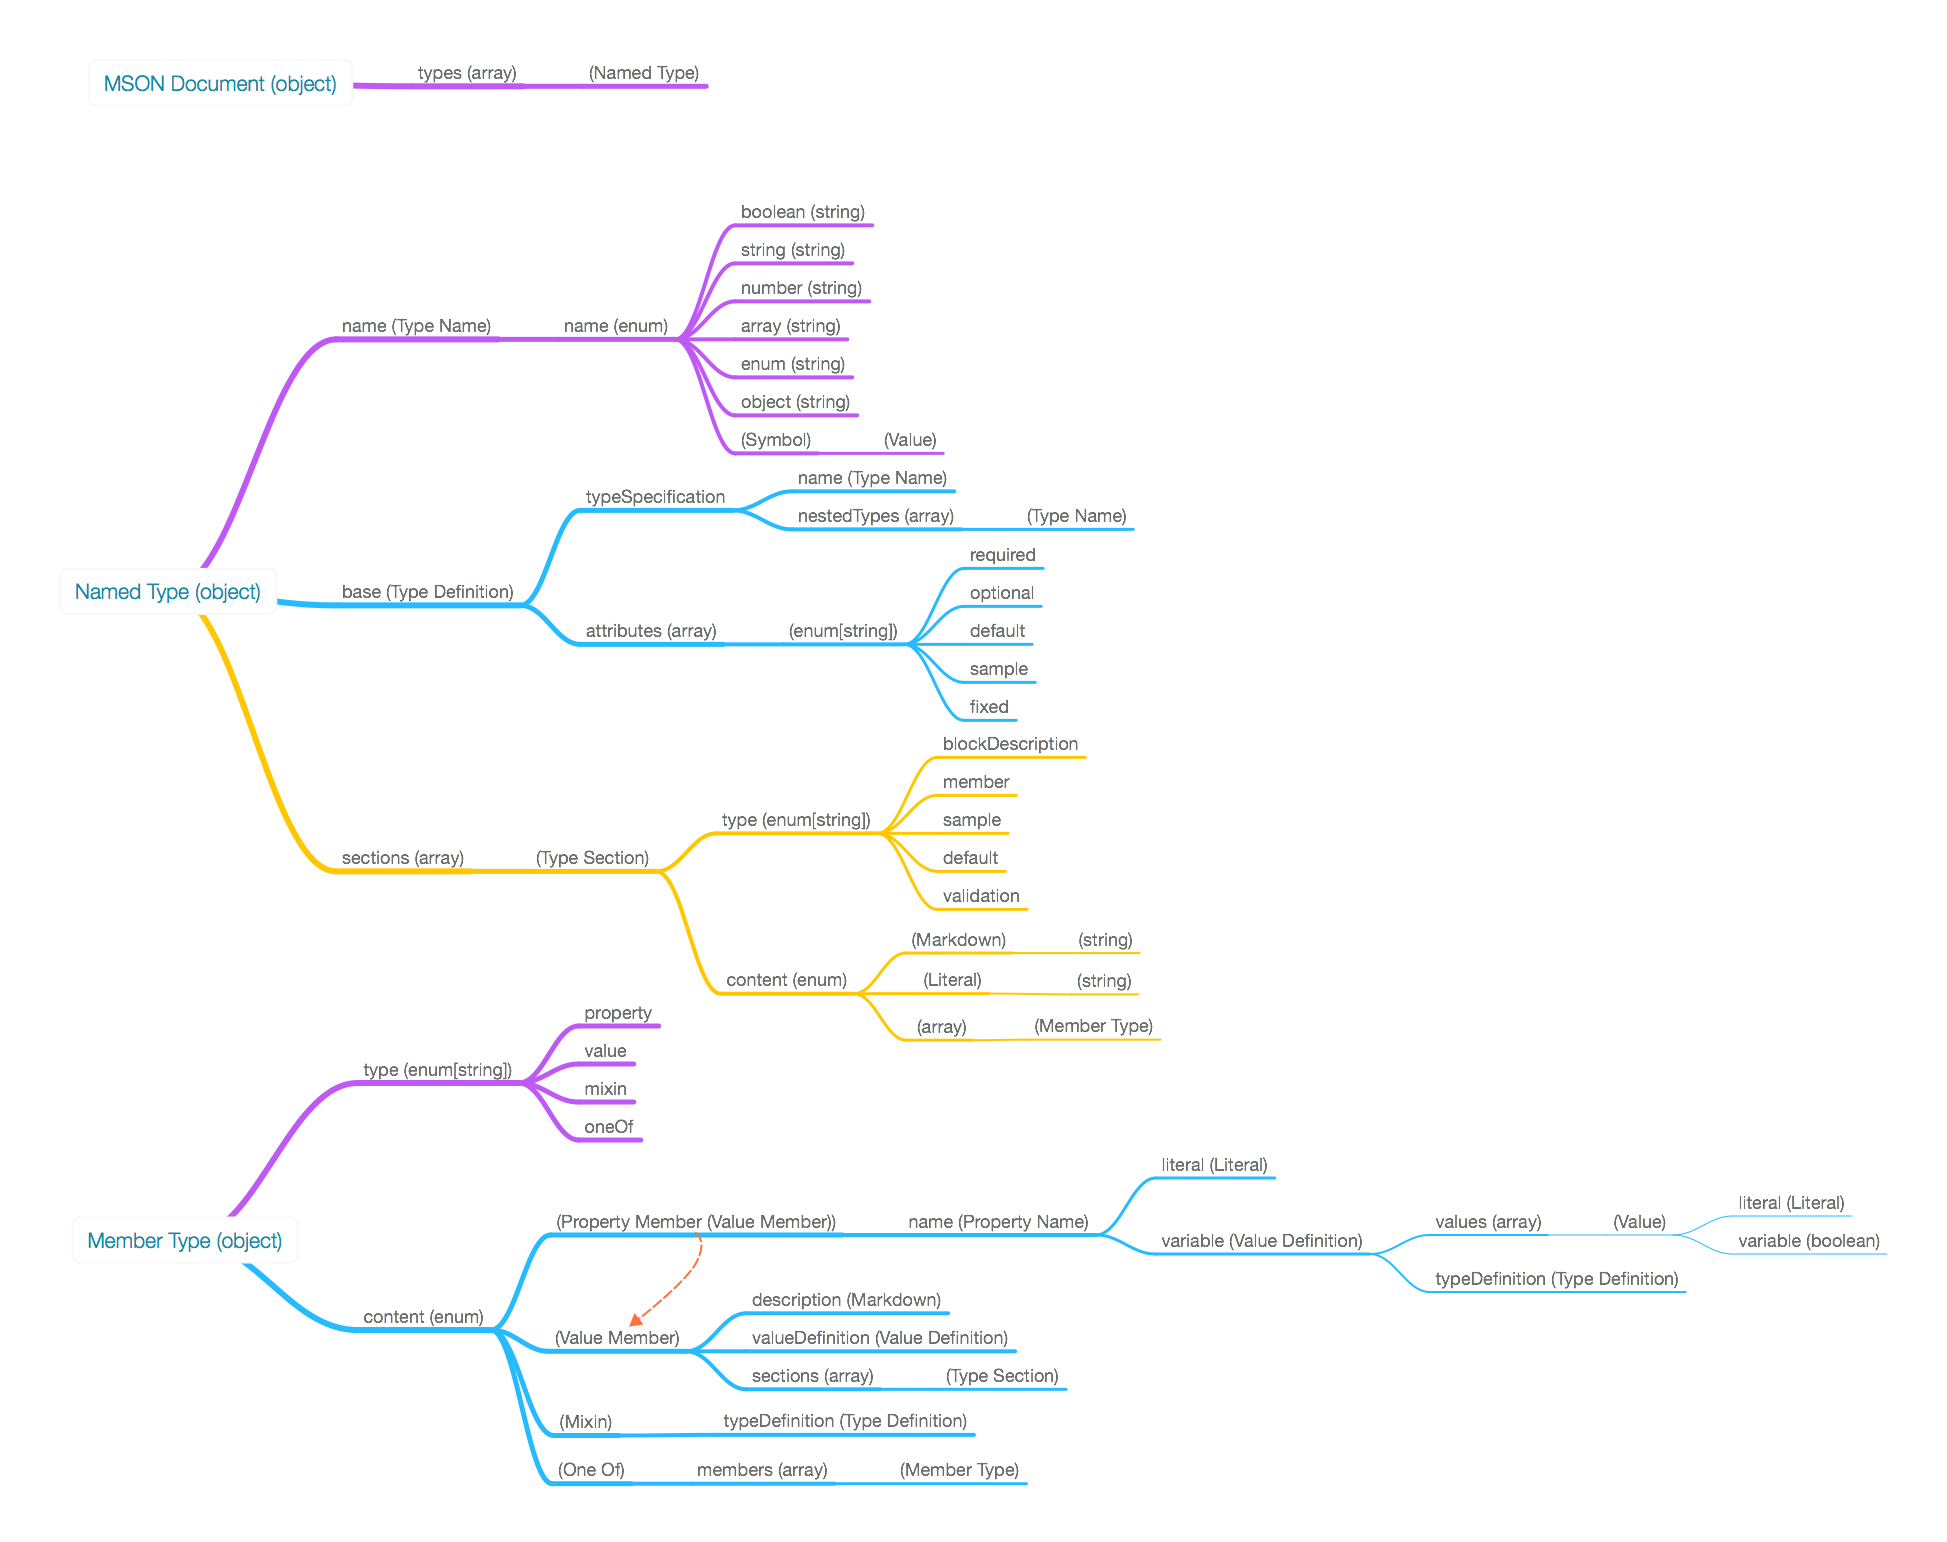
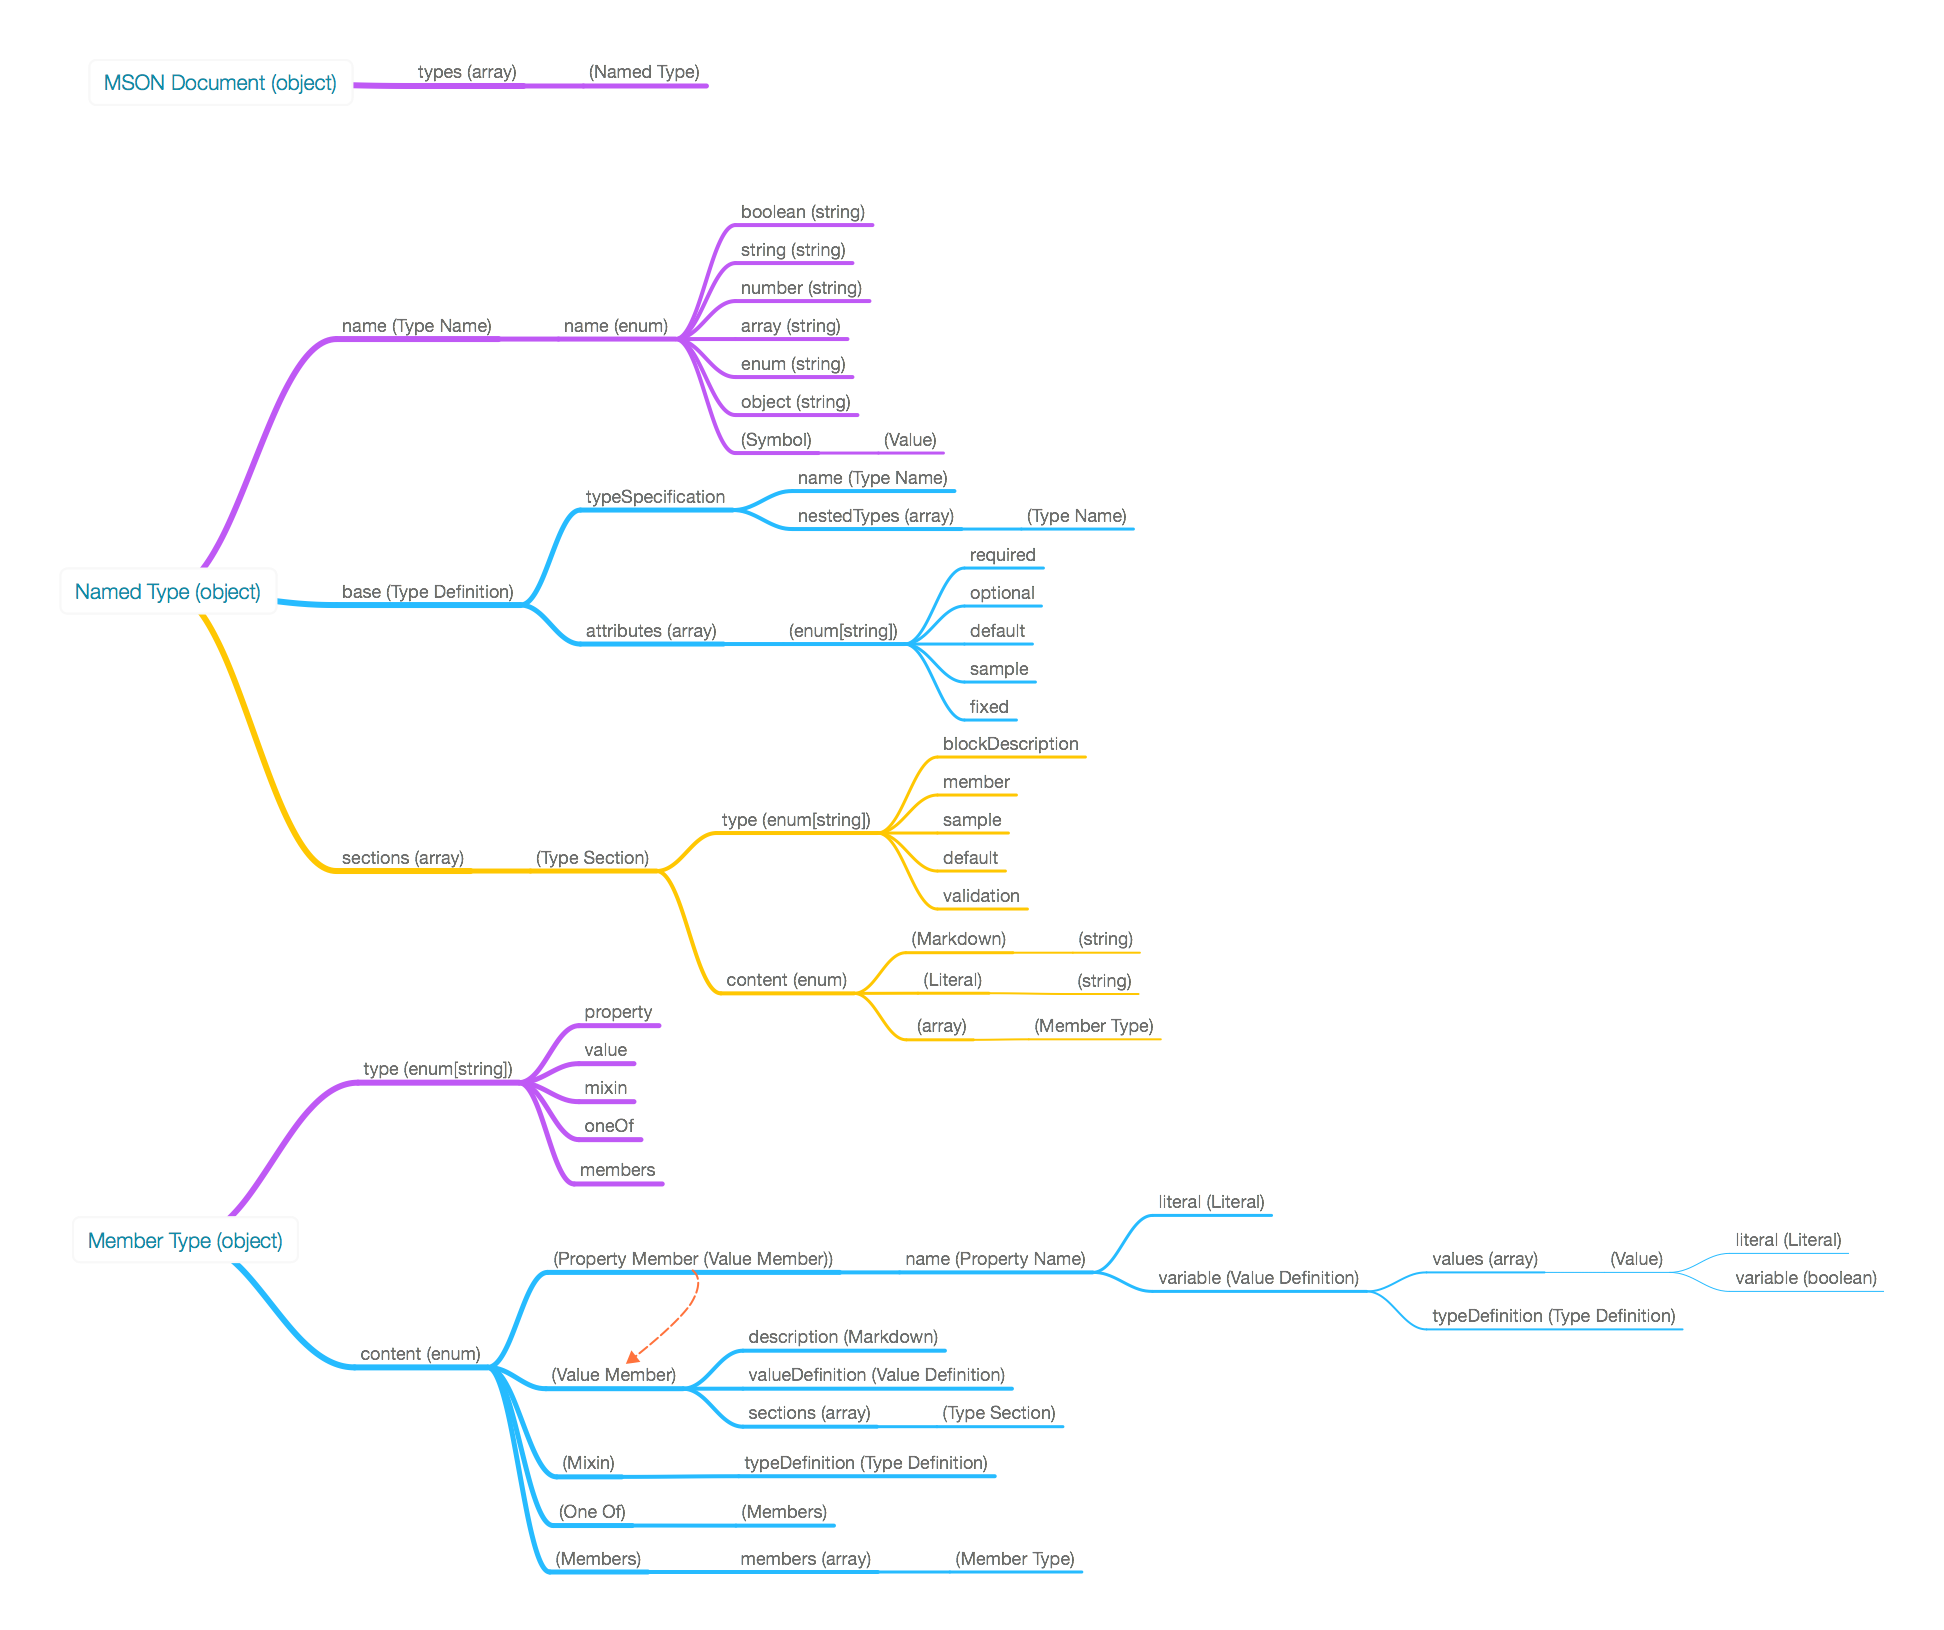
Add a new member group type in member type

diff --git a/README.md b/README.md
@@ -98,12 +98,14 @@ Member Type of a structure as described in the MSON Specification. In addition, 
     - `value` - Value Member
     - `mixin` - Mixin Type
     - `oneOf` - One Of Type
+    - `members` - Member Type Group
 
 - `content` (enum)
     - ([Property Member][]) - Member for `property` type
     - ([Value Member][]) - Member for `value` type
     - ([Mixin][]) - Member for `mixin` type
     - ([One Of][]) - Member for `oneOf` type
+    - ([Members][]) - Member for `members` type
 
 ### Property Member ([Value Member][])
 Individual member of an `object` type structure.
@@ -133,13 +135,16 @@ Mixin type. In the case of an AST, the Mixin type is treated as a special case o
 #### Properties
 - `typeDefinition` ([Type Definition][]) - Type Name or full Type Definition of the type to be included
 
-### One Of
-One Of type. In the case of AST the One Of type is treated as a special case of a member type. 
+### One Of ([Members][])
+One Of type. In the case of AST the One Of type is treated as a special case of a member type. List of member types will be mutually exclusive.
+
+Note only Member Types of `property`, `mixin`, `oneOf` and `members` are allowed in the members array.
+
+### Members
+Member Type Group. In the case of AST the Member Type Group is treated as a special case of a member type. Only used as a member for `oneOf` type.
 
 #### Properties
-- `members` (array[[Member Type][]]) - List of mutually exclusive member types.
-
-Note only Member Types of `property`, `mixin` and `oneOf` are allowed in the members array.
+- `members` (array[[Member Type][]]) - List of member types.
 
 ### Value Definition
 Value definition of a type instance.
